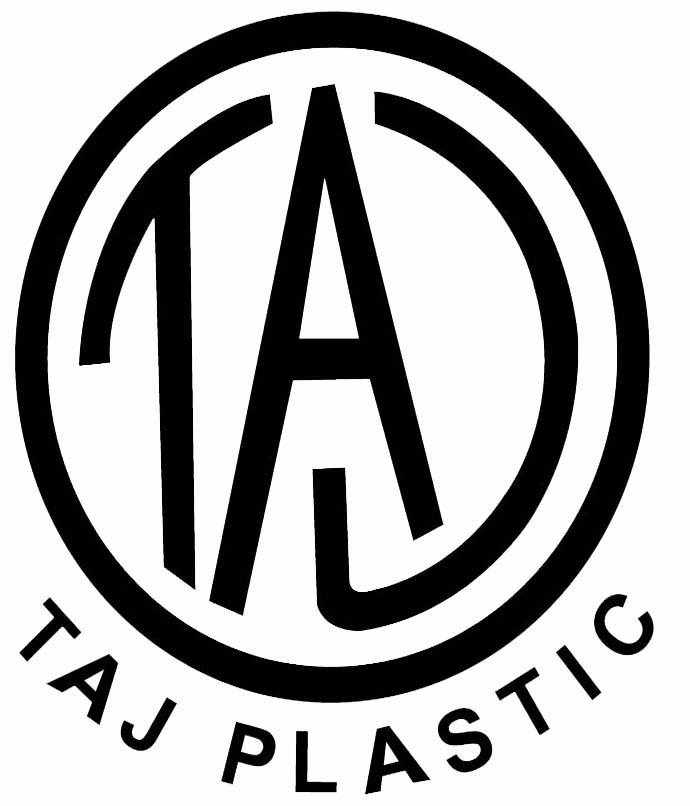
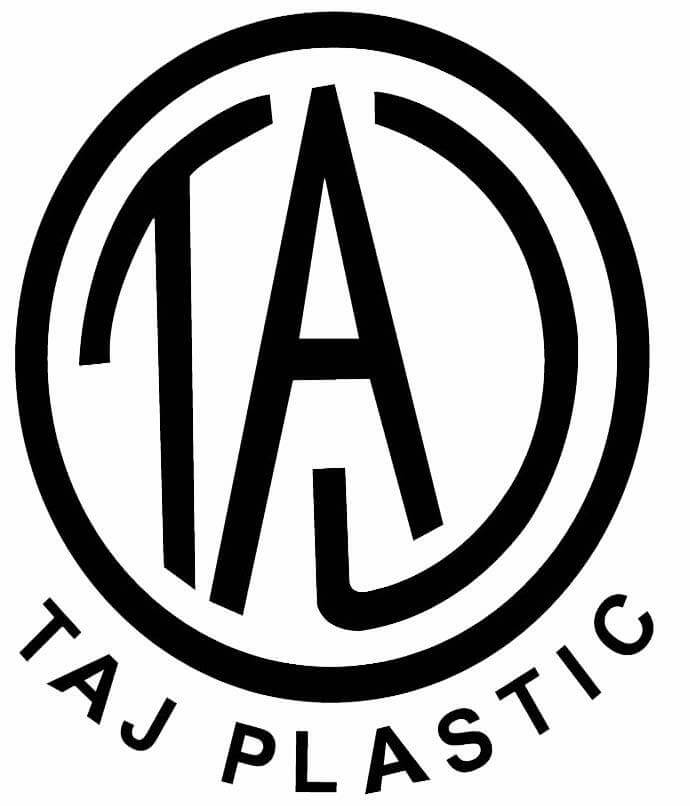
compressed images added

diff --git a/src/pages/components/BrandsListMarquee.jsx b/src/pages/components/BrandsListMarquee.jsx
@@ -13,7 +13,7 @@ import BrandLogo11 from '../../assets/brand-img/11.png';
 const BrandsListMarquee = () => {
     return (
         <div className='container mx-auto mt-10 hidden md:block '>
-            <h3 className='text-center font-bold text-gray-500 mb-10 text-3xl'> Brands Available</h3>
+            <h3 className='text-center font-bold text-gray-600 mb-10 text-3xl'> Brands Available</h3>
             <Marquee pauseOnHover={true} speed={60} gradient={true}> 
                 <div className='brand-img'>
                     <img src={BrandLogo1} alt="" />
